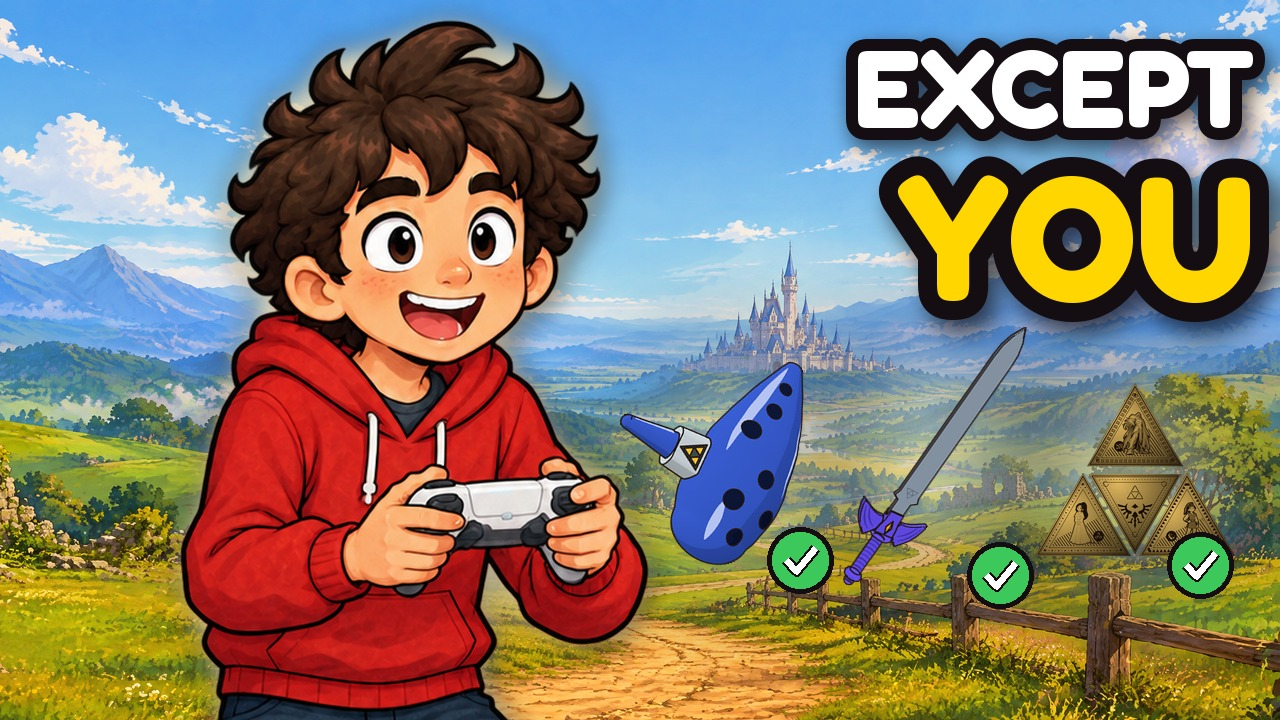
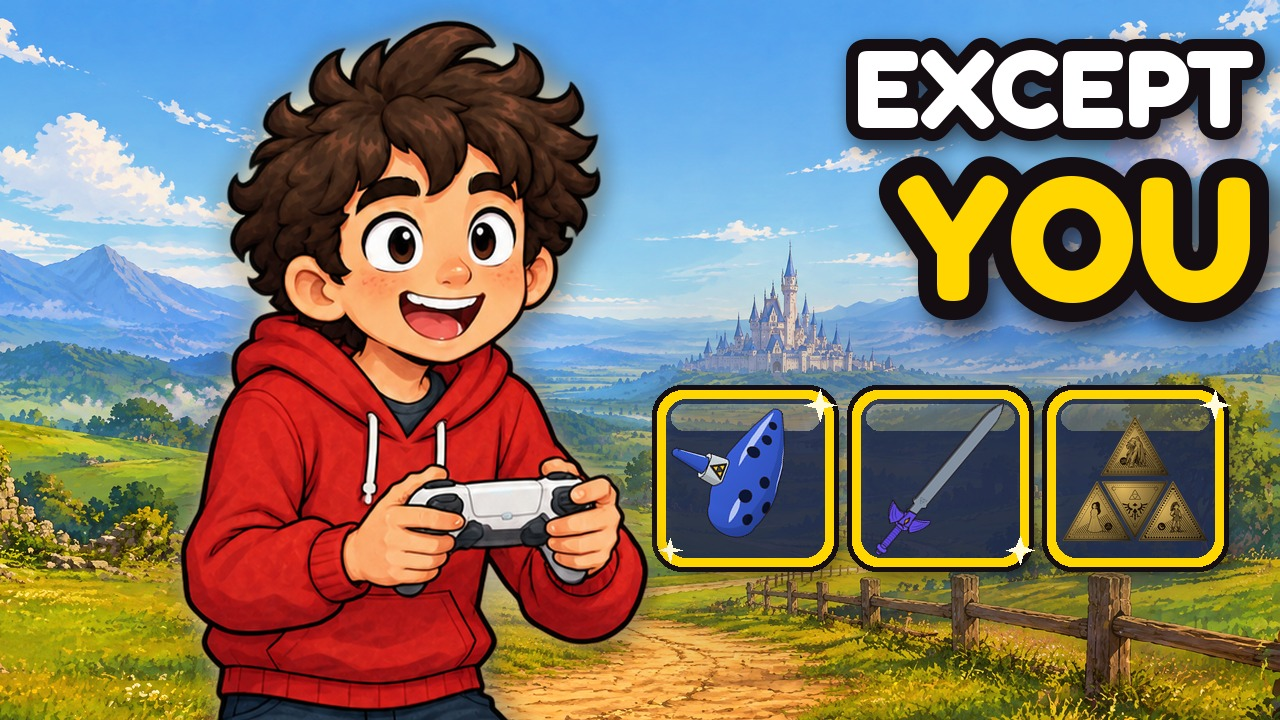
EP002 thumbnail 1d: the three anchors in game item slots (HUD style) instead of green ticks
Claude-Session: https://claude.ai/code/session_01Bi3PXNKGSfsqTH99bT8fk5

Changed region(s): [[0.4688, 0.4583, 0.9688, 0.8556]]

diff --git a/secondquest/scripts/ep002-thumbs-v2.py b/secondquest/scripts/ep002-thumbs-v2.py
@@ -144,22 +144,35 @@ def _triforce():
     return tri
 
 
+def item_slot(bg, cx, cy, size=176):
+    """A game item slot, the HUD style of the video: dark glass, gold rim, ink outline."""
+    lay = Image.new('RGBA', bg.size); d = ImageDraw.Draw(lay)
+    h = size / 2
+    d.rounded_rectangle((cx - h - 5, cy - h - 5, cx + h + 5, cy + h + 5), 30, fill=INK + (255,))
+    d.rounded_rectangle((cx - h, cy - h, cx + h, cy + h), 26, fill=(255, 214, 0, 255))
+    d.rounded_rectangle((cx - h + 9, cy - h + 9, cx + h - 9, cy + h - 9), 20, fill=(30, 42, 78, 205))
+    d.rounded_rectangle((cx - h + 14, cy - h + 14, cx + h - 14, cy - h + 40), 14, fill=(255, 255, 255, 40))   # glass sheen
+    out = bg.convert('RGBA')
+    sh = Image.new('RGBA', bg.size); ImageDraw.Draw(sh).rounded_rectangle((cx - h + 8, cy - h + 12, cx + h + 8, cy + h + 12), 30, fill=(0, 0, 0, 110))
+    out.alpha_composite(sh.filter(ImageFilter.GaussianBlur(8)))
+    out.alpha_composite(lay)
+    return out.convert('RGB')
+
+
 def option1d(words):
-    """1d · Simplified (Producer, 2026-10-07: "arregla la miniatura, si está sobrecargada"): one subject. Quest today,
-    red hoodie, pad in hand, face big in the left third looking at us; on the right the remake's three anchors in a
-    row, each ticked as rebuilt. The words finish the list."""
+    """1d · Simplified (Producer, 2026-10-07): one subject. Quest today, red hoodie, pad in hand, face big in the left
+    third looking at us; on the right the remake's three anchors, each in a game item slot (the video's HUD style),
+    new and shining. The words finish the thought: everything is back... EXCEPT YOU."""
     bg = _rebuilt_bg()
-    row = [(K.OCARINA, 735, 470, 190, 18), (SWORD, 935, 455, 300, -35), (_triforce(), 1135, 470, 200, 0)]
-    for _, cx, cy, _, _ in row:
-        bg = K.glow(bg, cx, cy, 120, (255, 250, 220), .55)
-    for src, cx, cy, w, ang in row:
-        bg = K.prop(bg, src, cx, cy, w if src is not SWORD else 70, ang=ang)
-    d = ImageDraw.Draw(bg)
-    for cx, cy in ((800, 560), (1000, 575), (1200, 565)):
-        check_badge(d, cx, cy, 28)
+    slots = [(K.OCARINA, 745, 118, 22), (SWORD, 940, 44, -40), (_triforce(), 1135, 146, 0)]
+    for _, cx, _, _ in slots:
+        bg = K.glow(bg, cx, 478, 130, (255, 240, 190), .45)
+    for src, cx, w, ang in slots:
+        bg = item_slot(bg, cx, 478)
+        bg = K.prop(bg, src, cx, 478, w, ang=ang)
+    bg = K.sparkles(bg, [(820, 405, 16), (1020, 550, 14), (1215, 405, 15), (670, 550, 12)])
     bg = K.place(bg, _clean(K.cutout(Q_TODAY, 0, .56)), -10, 720, bottom=TH + 20, rim=(255, 240, 200))
     return K.words(bg, words, (600, 20, 1255, 300), align='right')
-
 
 def option1e(words):
     """1e · Simplified, the eras version: Quest today big in the centre; behind him, smaller, the child and the adult
